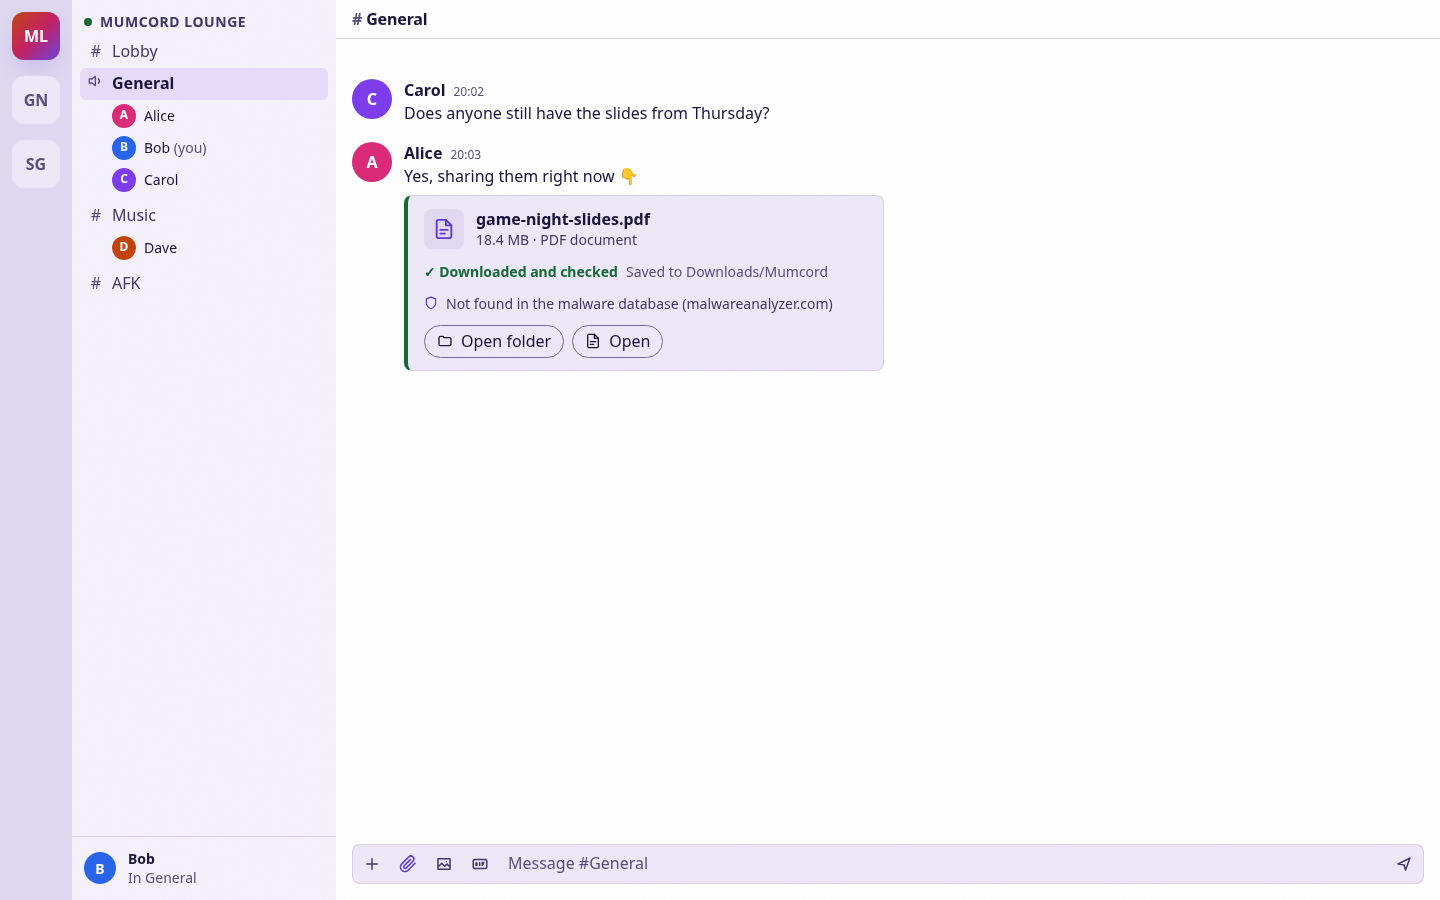
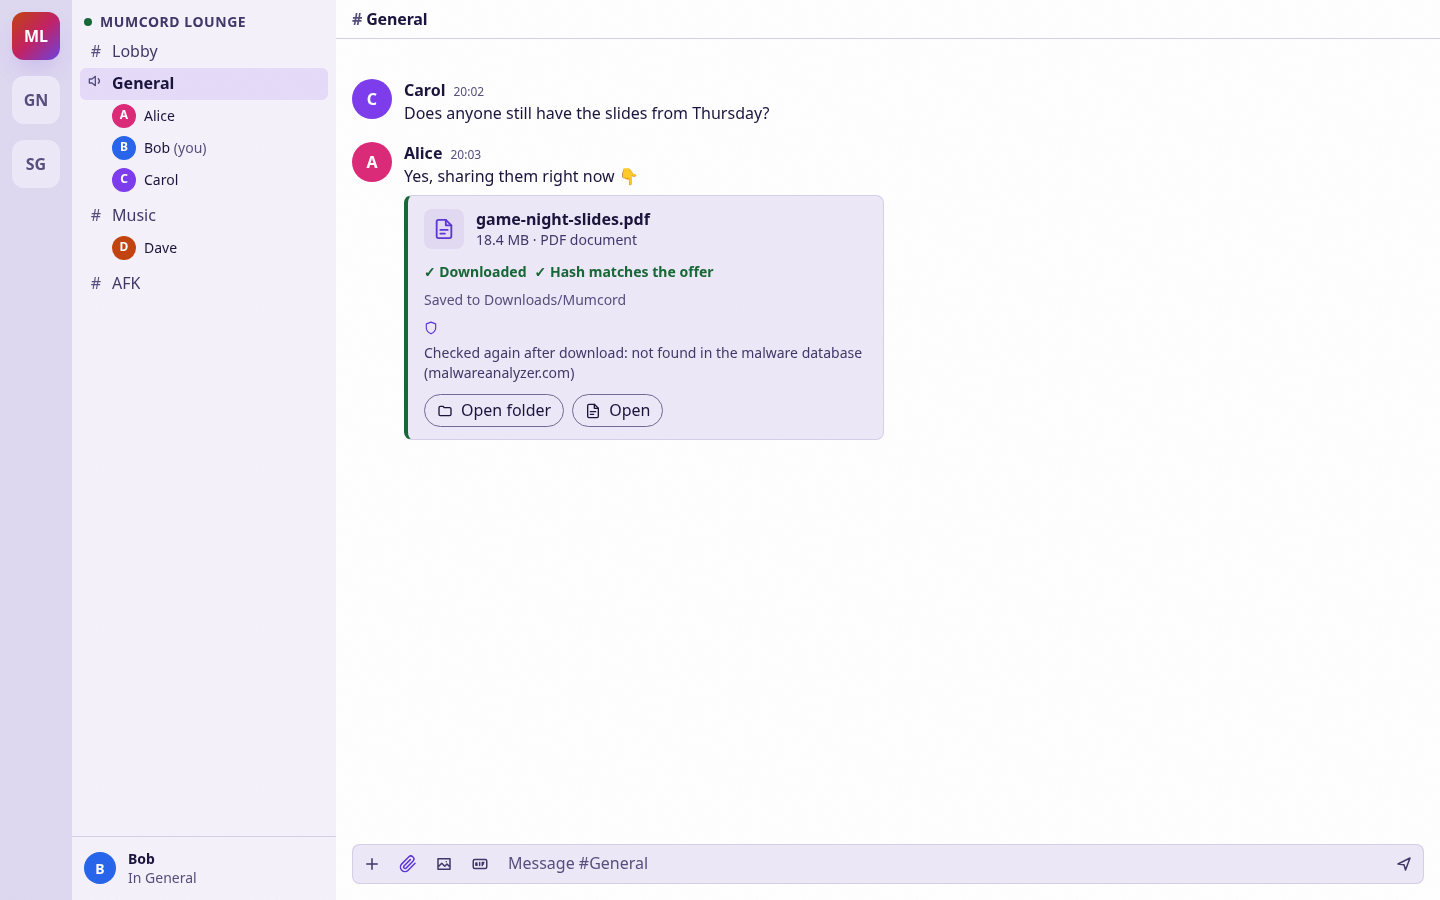
docs: add malware pre-check and hash mismatch to Epic 4.1 mockups

Changed region(s): [[0.2812, 0.3733, 0.5938, 0.4978], [0.2812, 0.28, 0.5625, 0.3422]]

diff --git a/docs/mockups/epic-4.1/02b-offer-malware.html b/docs/mockups/epic-4.1/02b-offer-malware.html
@@ -1,0 +1,67 @@
+<!doctype html>
+<html lang="en" data-theme="dark">
+<head>
+<meta charset="utf-8">
+<meta name="viewport" content="width=device-width, initial-scale=1">
+<title>Recipient – known-malware offer – Epic 4.1 mockup</title>
+<!-- Same fonts the app bundles via @fontsource (not installed for static mockups). -->
+<link rel="stylesheet" href="https://fonts.googleapis.com/css2?family=Bricolage+Grotesque:opsz,wght@12..96,200..800&family=Instrument+Sans:wght@400..700&display=swap">
+<link rel="stylesheet" href="../../../ui/src/theme/global.css">
+<link rel="stylesheet" href="../../../ui/src/app/shell.css">
+<link rel="stylesheet" href="../../../ui/src/features/app/app.css">
+<link rel="stylesheet" href="../../../ui/src/features/servers/servers.css">
+<link rel="stylesheet" href="../../../ui/src/features/channels/channels.css">
+<link rel="stylesheet" href="../../../ui/src/features/members/members.css">
+<link rel="stylesheet" href="../../../ui/src/features/chat/chat.css">
+<link rel="stylesheet" href="../../../ui/src/features/chat/mediaCards.css">
+<link rel="stylesheet" href="../../../ui/src/features/plugins/prompt/progress.css">
+<link rel="stylesheet" href="../../../ui/src/features/settings/settings.css">
+<link rel="stylesheet" href="mock.css">
+<!-- ?theme=light switches to the light theme, like the app's data-theme on <html>. -->
+<script>document.documentElement.dataset.theme = new URLSearchParams(location.search).get("theme") || "dark";</script>
+</head>
+<body class="">
+<div class="shell" style="--channels-width: 16.5rem; --members-column-width: 0px">
+  <nav class="shell__servers" aria-label="Servers"><div class="server-bar"><ul class="server-bar__list"><li class="server-bar__item" data-active><button class="server-bar__server mock-server mock-server--active" type="button" aria-label="Mumcord Lounge">ML</button></li><li class="server-bar__item"><button class="server-bar__server mock-server" type="button" aria-label="Game Night">GN</button></li><li class="server-bar__item"><button class="server-bar__server mock-server" type="button" aria-label="Study Group">SG</button></li></ul></div></nav>
+  <div class="shell__channel-column" aria-label="Channels">
+    <div class="mock-section"><h2 class="server-section__title"><span class="server-section__dot"></span><span class="server-section__name">Mumcord Lounge</span></h2></div>
+    <ul class="mock-tree"><li class="mock-channel"><div class="tree-channel__row"><span class="tree-channel__glyph"><span class="mock-hash">#</span></span><span class="tree-channel__label"><span class="tree-channel__name">Lobby</span></span></div></li><li class="mock-channel"><div class="tree-channel__row" data-here><span class="tree-channel__glyph"><svg viewBox="0 0 24 24" width="16" height="16" aria-hidden="true" fill="none" stroke="currentColor" stroke-width="2" stroke-linecap="round" stroke-linejoin="round"><path d="M11 5 6 9H2v6h4l5 4zM15.5 8.5a5 5 0 0 1 0 7"/></svg></span><span class="tree-channel__label"><span class="tree-channel__name">General</span></span></div><ul class="mock-people"><li class="tree-person mock-person"><span class="tree-person__row"><span class="avatar" data-size="sm" data-initial="A" style="--avatar-bg: var(--color-avatar-4)" aria-hidden="true"></span><span class="tree-person__name">Alice</span></span></li><li class="tree-person mock-person"><span class="tree-person__row"><span class="avatar" data-size="sm" data-initial="B" style="--avatar-bg: var(--color-avatar-8)" aria-hidden="true"></span><span class="tree-person__name">Bob <span class="tree-person__you">(you)</span></span></span></li><li class="tree-person mock-person"><span class="tree-person__row"><span class="avatar" data-size="sm" data-initial="C" style="--avatar-bg: var(--color-avatar-2)" aria-hidden="true"></span><span class="tree-person__name">Carol</span></span></li></ul></li><li class="mock-channel"><div class="tree-channel__row"><span class="tree-channel__glyph"><span class="mock-hash">#</span></span><span class="tree-channel__label"><span class="tree-channel__name">Music</span></span></div><ul class="mock-people"><li class="tree-person mock-person"><span class="tree-person__row"><span class="avatar" data-size="sm" data-initial="D" style="--avatar-bg: var(--color-avatar-6)" aria-hidden="true"></span><span class="tree-person__name">Dave</span></span></li></ul></li><li class="mock-channel"><div class="tree-channel__row"><span class="tree-channel__glyph"><span class="mock-hash">#</span></span><span class="tree-channel__label"><span class="tree-channel__name">AFK</span></span></div></li></ul>
+    <section class="shell__user-panel mock-userpanel" aria-label="You"><span class="avatar" data-size="md" data-initial="B" style="--avatar-bg: var(--color-avatar-8)" aria-hidden="true"></span><span><strong>Bob</strong><br><span class="mock-muted">In General</span></span></section>
+  </div>
+  <main class="shell__chat" aria-label="Chat">
+  <header class="chat-header"><h2 class="chat-header__title"><span class="chat-header__hash" aria-hidden="true">#</span>General</h2></header>
+  <div class="shell__chat-body">
+    <div class="chat-list-frame"><div class="chat-list"><ul class="chat-list__items"><li class="chat-message chat-message--start"><div class="chat-message__row">
+  <div class="chat-message__gutter"><span class="avatar" data-size="md" data-initial="C" style="--avatar-bg: var(--color-avatar-2)" aria-hidden="true"></span></div>
+  <div class="chat-message__content"><div class="chat-message__header"><span class="chat-message__sender">Carol</span><time class="chat-message__time">20:02</time></div>
+  <div class="chat-message__body"><p>Does anyone still have the slides from Thursday?</p></div></div></div></li><li class="chat-message chat-message--start"><div class="chat-message__row">
+  <div class="chat-message__gutter"><span class="avatar" data-size="md" data-initial="A" style="--avatar-bg: var(--color-avatar-4)" aria-hidden="true"></span></div>
+  <div class="chat-message__content"><div class="chat-message__header"><span class="chat-message__sender">Alice</span><time class="chat-message__time">20:03</time></div>
+  <div class="chat-message__body"><p>Yes, sharing them right now 👇</p></div></div></div></li><li class="chat-message"><div class="chat-message__row"><div class="chat-message__gutter"></div>
+  <div class="chat-message__content"><div class="chat-message__body"><div class="audio-card file-card" data-state="malware" role="group" aria-label="File game-night-slides.pdf, known malware">
+  <div class="audio-card__head">
+    <span class="audio-card__icon"><svg viewBox="0 0 24 24" width="22" height="22" aria-hidden="true" fill="none" stroke="currentColor" stroke-width="2" stroke-linecap="round" stroke-linejoin="round"><path d="M14 2H6a2 2 0 0 0-2 2v16a2 2 0 0 0 2 2h12a2 2 0 0 0 2-2V8z"/><path d="M14 2v6h6M8 13h8M8 17h5"/></svg></span>
+    <div class="audio-card__text"><p class="audio-card__name">game-night-slides.pdf</p><p class="audio-card__facts">18.4 MB · PDF document</p></div>
+  </div>
+  
+  <p class="file-card__status"><span class="file-card__dot" data-online></span>Available while Alice is online · ends tomorrow at 20:04</p>
+  <div class="malware-alert" role="alert"><span class="malware-alert__icon"><svg viewBox="0 0 24 24" width="22" height="22" aria-hidden="true" fill="none" stroke="currentColor" stroke-width="2" stroke-linecap="round" stroke-linejoin="round"><path d="M10.3 3.9 1.8 18a2 2 0 0 0 1.7 3h17a2 2 0 0 0 1.7-3L13.7 3.9a2 2 0 0 0-3.4 0zM12 9v4M12 17h.01"/></svg></span><div><p class="malware-alert__title">Known malware – download blocked</p><p>The malware database knows this exact file (checked from the offer's fingerprint, before downloading anything). Don't download it.</p></div></div>
+  <div class="file-card__actions"><button type="button" class="button button--primary file-card__button" disabled aria-disabled="true"><svg viewBox="0 0 24 24" width="16" height="16" aria-hidden="true" fill="none" stroke="currentColor" stroke-width="2" stroke-linecap="round" stroke-linejoin="round"><path d="M12 3v12M7 10l5 5 5-5M5 21h14"/></svg><span>Download</span></button></div>
+</div></div></div></div></li></ul></div></div>
+    <form class="chat-composer" aria-label="Message composer">
+  
+  <div class="chat-composer__row">
+    <div class="chat-apps"><button type="button" class="chat-composer__icon chat-apps__button" aria-label="Apps"><svg viewBox="0 0 24 24" width="18" height="18" aria-hidden="true" fill="none" stroke="currentColor" stroke-width="2" stroke-linecap="round" stroke-linejoin="round"><path d="M12 5v14M5 12h14"/></svg></button></div>
+    <button type="button" class="chat-composer__icon mock-new" aria-label="Attach a file" data-tooltip="Attach a file"><svg viewBox="0 0 24 24" width="18" height="18" aria-hidden="true" fill="none" stroke="currentColor" stroke-width="2" stroke-linecap="round" stroke-linejoin="round"><path d="m21.4 11.1-9.2 9.2a6 6 0 0 1-8.5-8.5l9.2-9.2a4 4 0 0 1 5.7 5.7l-9.2 9.2a2 2 0 0 1-2.8-2.8l8.5-8.5"/></svg></button>
+    <button type="button" class="chat-composer__icon" aria-label="Add image"><svg viewBox="0 0 24 24" width="18" height="18" aria-hidden="true" fill="none" stroke="currentColor" stroke-width="2" stroke-linecap="round" stroke-linejoin="round"><path d="M4 5h16v14H4zM4 16l5-5 4 4 3-3 4 4M15 9h.01"/></svg></button>
+    <button type="button" class="chat-composer__icon" aria-label="GIF"><svg viewBox="0 0 24 24" width="18" height="18" aria-hidden="true" fill="none" stroke="currentColor" stroke-width="2" stroke-linecap="round" stroke-linejoin="round"><rect x="3" y="6" width="18" height="12" rx="2"/><path d="M8 10.5h-1.5v3H8v-1.2M11.5 10v4M15 14v-4h2.2M15 12h1.6"/></svg></button>
+    <textarea class="chat-composer__input" rows="1" aria-label="Message #General" placeholder="Message #General"></textarea>
+    <button type="submit" class="chat-composer__icon" aria-label="Send"><svg viewBox="0 0 24 24" width="18" height="18" aria-hidden="true" fill="none" stroke="currentColor" stroke-width="2" stroke-linecap="round" stroke-linejoin="round"><path d="M4 12l16-8-6 16-2-7z"/></svg></button>
+  </div>
+</form>
+  </div>
+  
+</main>
+</div>
+</body>
+</html>

diff --git a/docs/mockups/epic-4.1/12-hash-mismatch.html b/docs/mockups/epic-4.1/12-hash-mismatch.html
@@ -1,0 +1,67 @@
+<!doctype html>
+<html lang="en" data-theme="dark">
+<head>
+<meta charset="utf-8">
+<meta name="viewport" content="width=device-width, initial-scale=1">
+<title>Hash mismatch – Epic 4.1 mockup</title>
+<!-- Same fonts the app bundles via @fontsource (not installed for static mockups). -->
+<link rel="stylesheet" href="https://fonts.googleapis.com/css2?family=Bricolage+Grotesque:opsz,wght@12..96,200..800&family=Instrument+Sans:wght@400..700&display=swap">
+<link rel="stylesheet" href="../../../ui/src/theme/global.css">
+<link rel="stylesheet" href="../../../ui/src/app/shell.css">
+<link rel="stylesheet" href="../../../ui/src/features/app/app.css">
+<link rel="stylesheet" href="../../../ui/src/features/servers/servers.css">
+<link rel="stylesheet" href="../../../ui/src/features/channels/channels.css">
+<link rel="stylesheet" href="../../../ui/src/features/members/members.css">
+<link rel="stylesheet" href="../../../ui/src/features/chat/chat.css">
+<link rel="stylesheet" href="../../../ui/src/features/chat/mediaCards.css">
+<link rel="stylesheet" href="../../../ui/src/features/plugins/prompt/progress.css">
+<link rel="stylesheet" href="../../../ui/src/features/settings/settings.css">
+<link rel="stylesheet" href="mock.css">
+<!-- ?theme=light switches to the light theme, like the app's data-theme on <html>. -->
+<script>document.documentElement.dataset.theme = new URLSearchParams(location.search).get("theme") || "dark";</script>
+</head>
+<body class="">
+<div class="shell" style="--channels-width: 16.5rem; --members-column-width: 0px">
+  <nav class="shell__servers" aria-label="Servers"><div class="server-bar"><ul class="server-bar__list"><li class="server-bar__item" data-active><button class="server-bar__server mock-server mock-server--active" type="button" aria-label="Mumcord Lounge">ML</button></li><li class="server-bar__item"><button class="server-bar__server mock-server" type="button" aria-label="Game Night">GN</button></li><li class="server-bar__item"><button class="server-bar__server mock-server" type="button" aria-label="Study Group">SG</button></li></ul></div></nav>
+  <div class="shell__channel-column" aria-label="Channels">
+    <div class="mock-section"><h2 class="server-section__title"><span class="server-section__dot"></span><span class="server-section__name">Mumcord Lounge</span></h2></div>
+    <ul class="mock-tree"><li class="mock-channel"><div class="tree-channel__row"><span class="tree-channel__glyph"><span class="mock-hash">#</span></span><span class="tree-channel__label"><span class="tree-channel__name">Lobby</span></span></div></li><li class="mock-channel"><div class="tree-channel__row" data-here><span class="tree-channel__glyph"><svg viewBox="0 0 24 24" width="16" height="16" aria-hidden="true" fill="none" stroke="currentColor" stroke-width="2" stroke-linecap="round" stroke-linejoin="round"><path d="M11 5 6 9H2v6h4l5 4zM15.5 8.5a5 5 0 0 1 0 7"/></svg></span><span class="tree-channel__label"><span class="tree-channel__name">General</span></span></div><ul class="mock-people"><li class="tree-person mock-person"><span class="tree-person__row"><span class="avatar" data-size="sm" data-initial="A" style="--avatar-bg: var(--color-avatar-4)" aria-hidden="true"></span><span class="tree-person__name">Alice</span></span></li><li class="tree-person mock-person"><span class="tree-person__row"><span class="avatar" data-size="sm" data-initial="B" style="--avatar-bg: var(--color-avatar-8)" aria-hidden="true"></span><span class="tree-person__name">Bob <span class="tree-person__you">(you)</span></span></span></li><li class="tree-person mock-person"><span class="tree-person__row"><span class="avatar" data-size="sm" data-initial="C" style="--avatar-bg: var(--color-avatar-2)" aria-hidden="true"></span><span class="tree-person__name">Carol</span></span></li></ul></li><li class="mock-channel"><div class="tree-channel__row"><span class="tree-channel__glyph"><span class="mock-hash">#</span></span><span class="tree-channel__label"><span class="tree-channel__name">Music</span></span></div><ul class="mock-people"><li class="tree-person mock-person"><span class="tree-person__row"><span class="avatar" data-size="sm" data-initial="D" style="--avatar-bg: var(--color-avatar-6)" aria-hidden="true"></span><span class="tree-person__name">Dave</span></span></li></ul></li><li class="mock-channel"><div class="tree-channel__row"><span class="tree-channel__glyph"><span class="mock-hash">#</span></span><span class="tree-channel__label"><span class="tree-channel__name">AFK</span></span></div></li></ul>
+    <section class="shell__user-panel mock-userpanel" aria-label="You"><span class="avatar" data-size="md" data-initial="B" style="--avatar-bg: var(--color-avatar-8)" aria-hidden="true"></span><span><strong>Bob</strong><br><span class="mock-muted">In General</span></span></section>
+  </div>
+  <main class="shell__chat" aria-label="Chat">
+  <header class="chat-header"><h2 class="chat-header__title"><span class="chat-header__hash" aria-hidden="true">#</span>General</h2></header>
+  <div class="shell__chat-body">
+    <div class="chat-list-frame"><div class="chat-list"><ul class="chat-list__items"><li class="chat-message chat-message--start"><div class="chat-message__row">
+  <div class="chat-message__gutter"><span class="avatar" data-size="md" data-initial="C" style="--avatar-bg: var(--color-avatar-2)" aria-hidden="true"></span></div>
+  <div class="chat-message__content"><div class="chat-message__header"><span class="chat-message__sender">Carol</span><time class="chat-message__time">20:02</time></div>
+  <div class="chat-message__body"><p>Does anyone still have the slides from Thursday?</p></div></div></div></li><li class="chat-message chat-message--start"><div class="chat-message__row">
+  <div class="chat-message__gutter"><span class="avatar" data-size="md" data-initial="A" style="--avatar-bg: var(--color-avatar-4)" aria-hidden="true"></span></div>
+  <div class="chat-message__content"><div class="chat-message__header"><span class="chat-message__sender">Alice</span><time class="chat-message__time">20:03</time></div>
+  <div class="chat-message__body"><p>Yes, sharing them right now 👇</p></div></div></div></li><li class="chat-message"><div class="chat-message__row"><div class="chat-message__gutter"></div>
+  <div class="chat-message__content"><div class="chat-message__body"><div class="audio-card file-card" data-state="malware" role="group" aria-label="File game-night-slides.pdf, hash mismatch">
+  <div class="audio-card__head">
+    <span class="audio-card__icon"><svg viewBox="0 0 24 24" width="22" height="22" aria-hidden="true" fill="none" stroke="currentColor" stroke-width="2" stroke-linecap="round" stroke-linejoin="round"><path d="M14 2H6a2 2 0 0 0-2 2v16a2 2 0 0 0 2 2h12a2 2 0 0 0 2-2V8z"/><path d="M14 2v6h6M8 13h8M8 17h5"/></svg></span>
+    <div class="audio-card__text"><p class="audio-card__name">game-night-slides.pdf</p><p class="audio-card__facts">18.4 MB · PDF document</p></div>
+  </div>
+  
+  <div class="malware-alert" role="alert"><span class="malware-alert__icon"><svg viewBox="0 0 24 24" width="22" height="22" aria-hidden="true" fill="none" stroke="currentColor" stroke-width="2" stroke-linecap="round" stroke-linejoin="round"><path d="M10.3 3.9 1.8 18a2 2 0 0 0 1.7 3h17a2 2 0 0 0 1.7-3L13.7 3.9a2 2 0 0 0-3.4 0zM12 9v4M12 17h.01"/></svg></span><div><p class="malware-alert__title">Hash mismatch – file deleted</p><p>The file changed in transit or doesn't match the offer – deleted. Nothing was saved or opened. Ask Alice to share it again.</p></div></div>
+  <div class="file-card__actions"><button type="button" class="media-pill file-card__button"><span>Dismiss</span></button></div>
+</div>
+</div></div></div></div></li></ul></div></div>
+    <form class="chat-composer" aria-label="Message composer">
+  
+  <div class="chat-composer__row">
+    <div class="chat-apps"><button type="button" class="chat-composer__icon chat-apps__button" aria-label="Apps"><svg viewBox="0 0 24 24" width="18" height="18" aria-hidden="true" fill="none" stroke="currentColor" stroke-width="2" stroke-linecap="round" stroke-linejoin="round"><path d="M12 5v14M5 12h14"/></svg></button></div>
+    <button type="button" class="chat-composer__icon mock-new" aria-label="Attach a file" data-tooltip="Attach a file"><svg viewBox="0 0 24 24" width="18" height="18" aria-hidden="true" fill="none" stroke="currentColor" stroke-width="2" stroke-linecap="round" stroke-linejoin="round"><path d="m21.4 11.1-9.2 9.2a6 6 0 0 1-8.5-8.5l9.2-9.2a4 4 0 0 1 5.7 5.7l-9.2 9.2a2 2 0 0 1-2.8-2.8l8.5-8.5"/></svg></button>
+    <button type="button" class="chat-composer__icon" aria-label="Add image"><svg viewBox="0 0 24 24" width="18" height="18" aria-hidden="true" fill="none" stroke="currentColor" stroke-width="2" stroke-linecap="round" stroke-linejoin="round"><path d="M4 5h16v14H4zM4 16l5-5 4 4 3-3 4 4M15 9h.01"/></svg></button>
+    <button type="button" class="chat-composer__icon" aria-label="GIF"><svg viewBox="0 0 24 24" width="18" height="18" aria-hidden="true" fill="none" stroke="currentColor" stroke-width="2" stroke-linecap="round" stroke-linejoin="round"><rect x="3" y="6" width="18" height="12" rx="2"/><path d="M8 10.5h-1.5v3H8v-1.2M11.5 10v4M15 14v-4h2.2M15 12h1.6"/></svg></button>
+    <textarea class="chat-composer__input" rows="1" aria-label="Message #General" placeholder="Message #General"></textarea>
+    <button type="submit" class="chat-composer__icon" aria-label="Send"><svg viewBox="0 0 24 24" width="18" height="18" aria-hidden="true" fill="none" stroke="currentColor" stroke-width="2" stroke-linecap="round" stroke-linejoin="round"><path d="M4 12l16-8-6 16-2-7z"/></svg></button>
+  </div>
+</form>
+  </div>
+  
+</main>
+</div>
+</body>
+</html>

diff --git a/docs/mockups/epic-4.1/04-done.html b/docs/mockups/epic-4.1/04-done.html
@@ -44,8 +44,8 @@
     <div class="audio-card__text"><p class="audio-card__name">game-night-slides.pdf</p><p class="audio-card__facts">18.4 MB · PDF document</p></div>
   </div>
   
-  <p class="file-card__status"><span class="file-card__ok">✓ Downloaded and checked</span><span class="mock-muted">Saved to Downloads/Mumcord</span></p>
-  <p class="file-card__status file-card__scan"><svg viewBox="0 0 24 24" width="14" height="14" aria-hidden="true" fill="none" stroke="currentColor" stroke-width="2" stroke-linecap="round" stroke-linejoin="round"><path d="M12 22s8-4 8-10V5l-8-3-8 3v7c0 6 8 10 8 10z"/></svg><span>Not found in the malware database (malwareanalyzer.com)</span></p>
+  <p class="file-card__status"><span class="file-card__ok">✓ Downloaded</span><span class="file-card__ok">✓ Hash matches the offer</span><span class="mock-muted">Saved to Downloads/Mumcord</span></p>
+  <p class="file-card__status file-card__scan"><svg viewBox="0 0 24 24" width="14" height="14" aria-hidden="true" fill="none" stroke="currentColor" stroke-width="2" stroke-linecap="round" stroke-linejoin="round"><path d="M12 22s8-4 8-10V5l-8-3-8 3v7c0 6 8 10 8 10z"/></svg><span>Checked again after download: not found in the malware database (malwareanalyzer.com)</span></p>
   <div class="file-card__actions"><button type="button" class="media-pill file-card__button"><svg viewBox="0 0 24 24" width="16" height="16" aria-hidden="true" fill="none" stroke="currentColor" stroke-width="2" stroke-linecap="round" stroke-linejoin="round"><path d="M3 7a2 2 0 0 1 2-2h4l2 2h8a2 2 0 0 1 2 2v8a2 2 0 0 1-2 2H5a2 2 0 0 1-2-2z"/></svg><span>Open folder</span></button><button type="button" class="media-pill file-card__button"><svg viewBox="0 0 24 24" width="16" height="16" aria-hidden="true" fill="none" stroke="currentColor" stroke-width="2" stroke-linecap="round" stroke-linejoin="round"><path d="M14 2H6a2 2 0 0 0-2 2v16a2 2 0 0 0 2 2h12a2 2 0 0 0 2-2V8z"/><path d="M14 2v6h6M8 13h8M8 17h5"/></svg><span>Open</span></button></div>
 </div></div></div></div></li></ul></div></div>
     <form class="chat-composer" aria-label="Message composer">

diff --git a/docs/mockups/epic-4.1/02-offer-card.html b/docs/mockups/epic-4.1/02-offer-card.html
@@ -45,6 +45,7 @@
   </div>
   
   <p class="file-card__status"><span class="file-card__dot" data-online></span>Available while Alice is online · ends tomorrow at 20:04</p>
+  <p class="file-card__status file-card__scan"><svg viewBox="0 0 24 24" width="14" height="14" aria-hidden="true" fill="none" stroke="currentColor" stroke-width="2" stroke-linecap="round" stroke-linejoin="round"><path d="M12 22s8-4 8-10V5l-8-3-8 3v7c0 6 8 10 8 10z"/></svg><span>Checked before download: not found in the malware database (malwareanalyzer.com)</span></p>
   <div class="file-card__actions"><button type="button" class="button button--primary file-card__button"><svg viewBox="0 0 24 24" width="16" height="16" aria-hidden="true" fill="none" stroke="currentColor" stroke-width="2" stroke-linecap="round" stroke-linejoin="round"><path d="M12 3v12M7 10l5 5 5-5M5 21h14"/></svg><span>Download</span></button></div>
 </div></div></div></div></li></ul></div></div>
     <form class="chat-composer" aria-label="Message composer">
